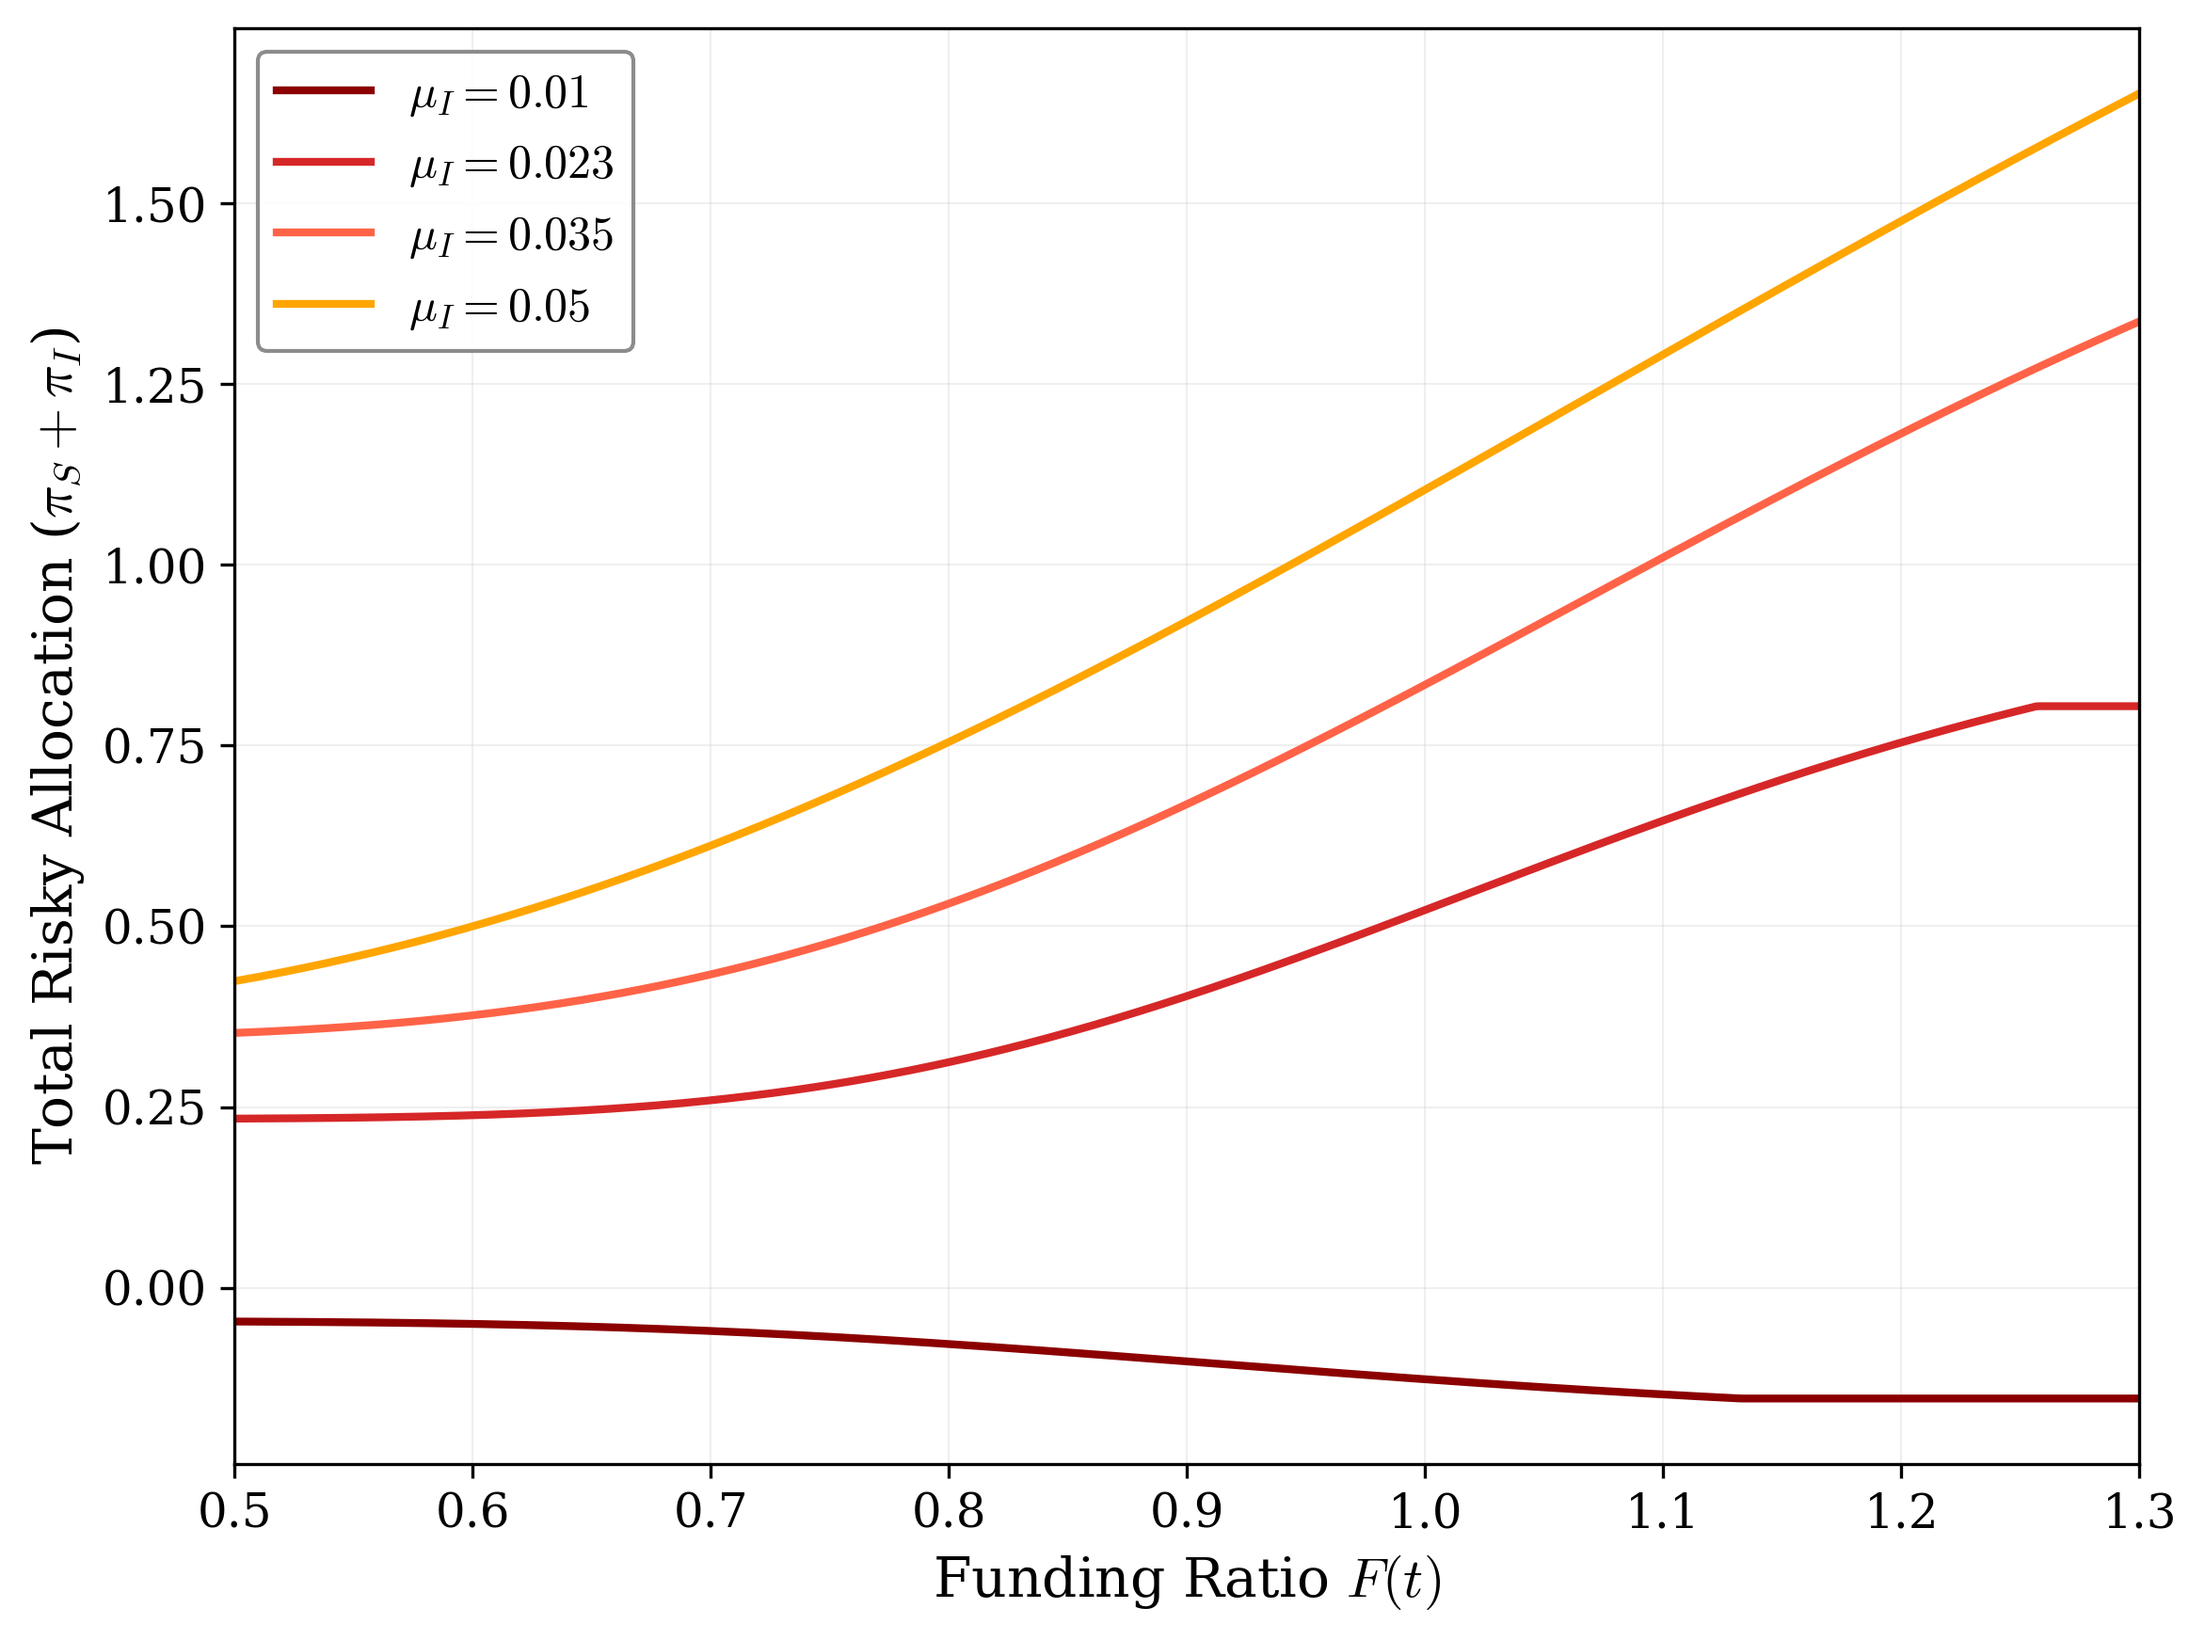
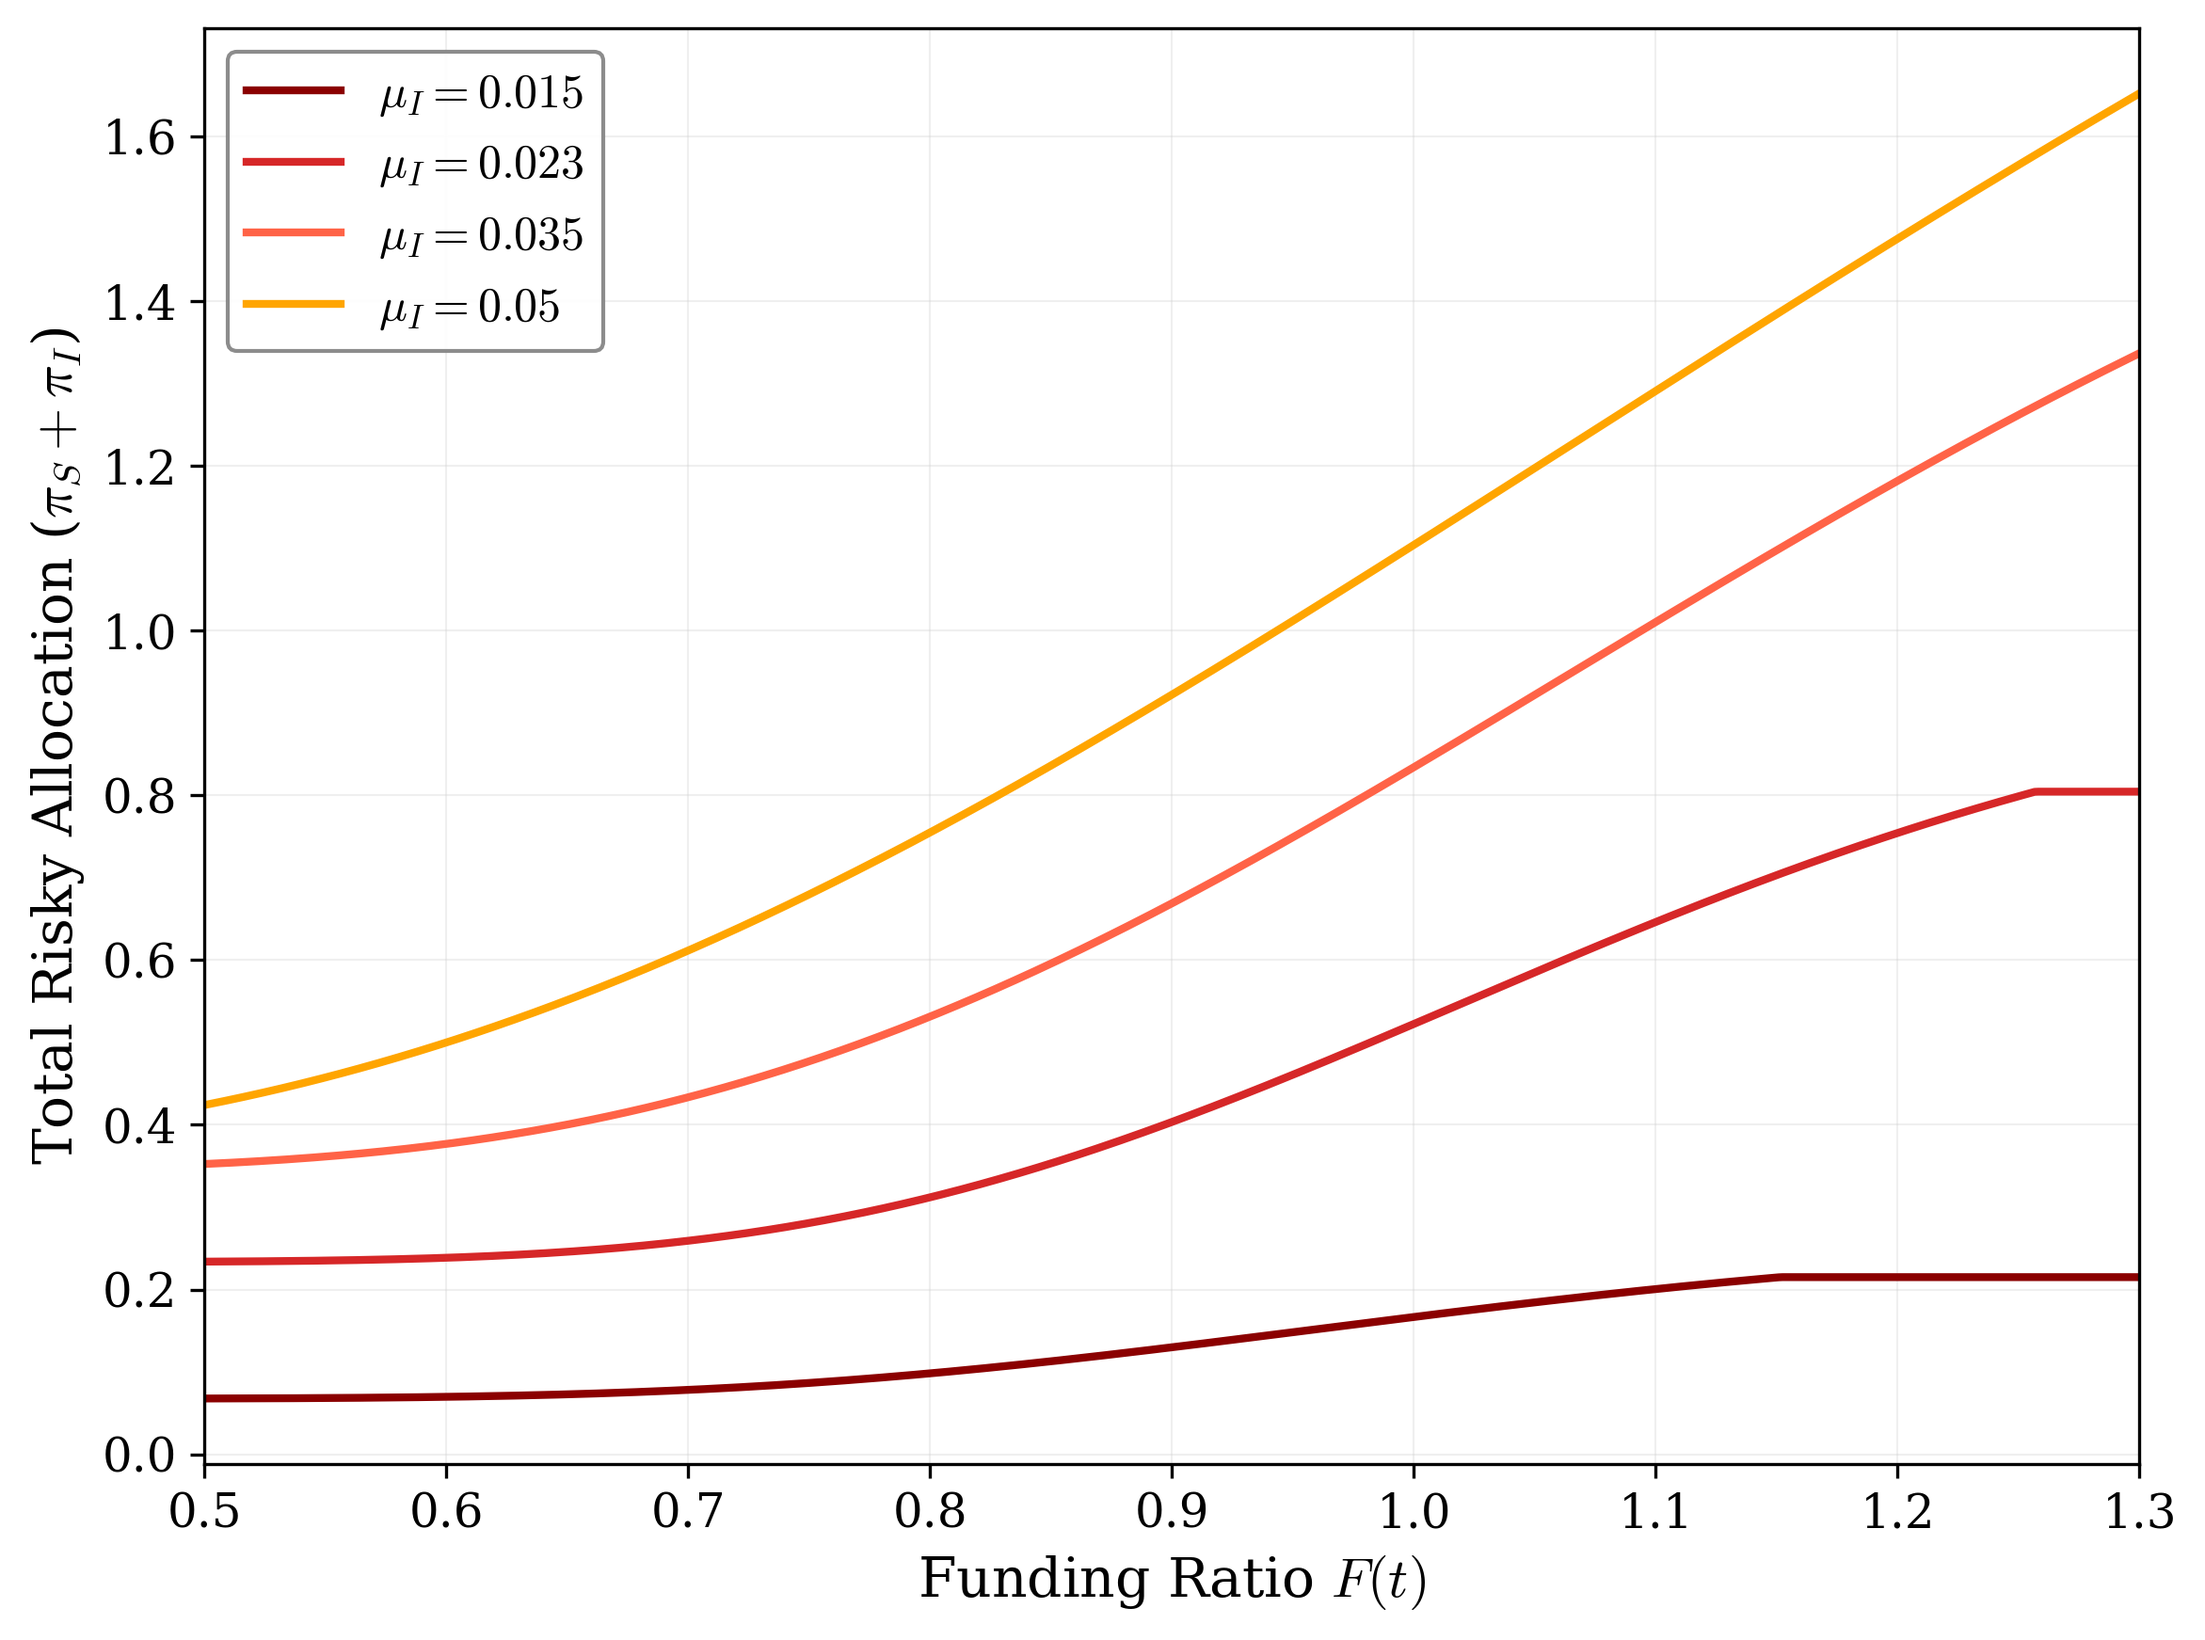
mu_I sensitivity 하한을 0.01 → 0.015로 수정
mu_I=0.01이면 Pi*_total=-0.153으로 risky short 포지션이 됨.
mu_I=0.015로 올리면 Pi*_total=0.215로 합리적인 양수 배분.

https://claude.ai/code/session_01QBQkK9CYa7PCUCG7dDx5be

diff --git a/scripts/generate_paper_figures.py b/scripts/generate_paper_figures.py
@@ -490,7 +490,7 @@ def plot_group_B():
 # ── Group C: Expected Inflation (mu_I) ───────────────────────
 
 def plot_group_C():
-    mu_Is = [0.01, 0.023, 0.035, 0.05]
+    mu_Is = [0.015, 0.023, 0.035, 0.05]
     warm = WARM_PALETTE[:4]
 
     # C1: ES total allocation by mu_I — warm palette
